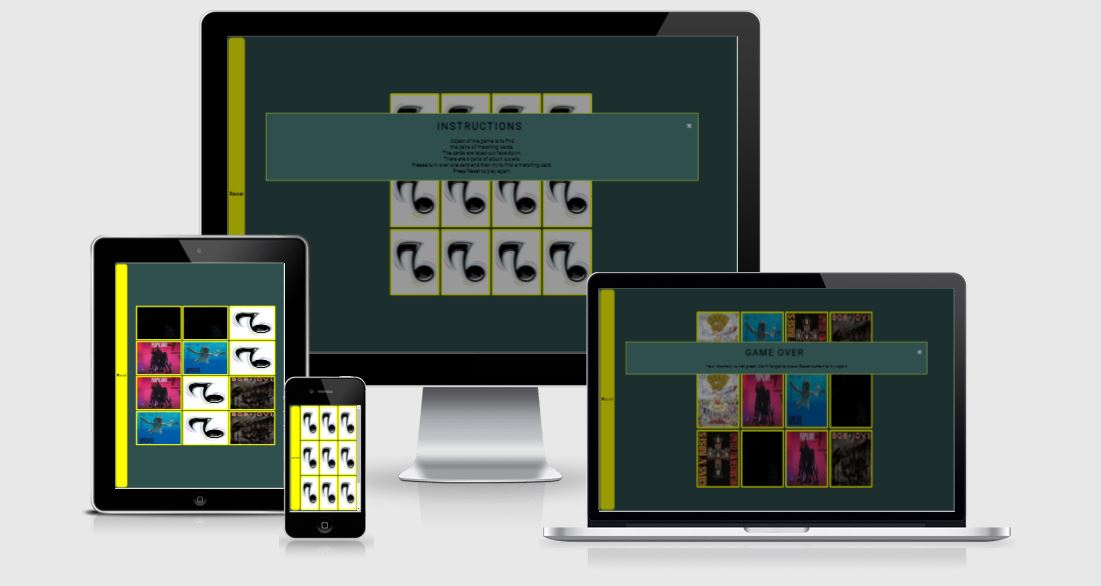
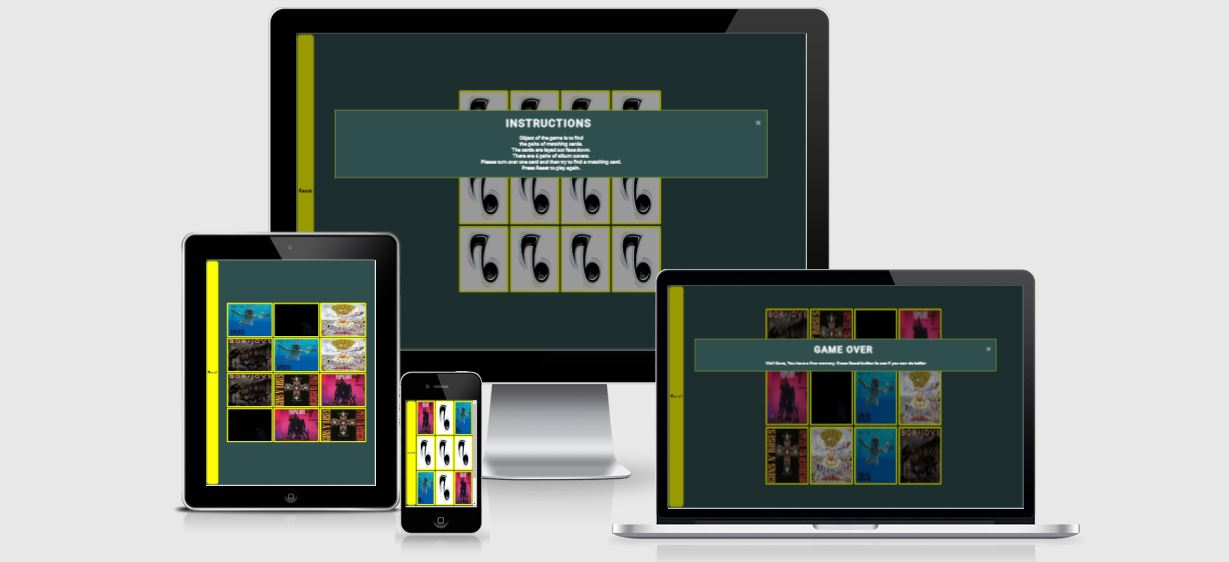
add new image, replaced metallica with def leppard

diff --git a/index.html b/index.html
@@ -73,13 +73,13 @@
             <img class = "back-face" src = "assets/images/note.webp" alt = "music note 1">    
         </div>
 
-        <div class = "memory-card" data-band="Metallica">
-            <img class = "front-face" src = "assets/images/metallica.webp" alt = "Metallica Black">
+        <div class = "memory-card" data-band="DefLeppard">
+            <img class = "front-face" src = "assets/images/defleppard.webp" alt = "DefLeppard">
             <img class = "back-face" src = "assets/images/note.webp" alt = "music note 1">            
 
         </div>
-        <div class = "memory-card" data-band="Metallica">
-            <img class = "front-face" src = "assets/images/metallica.webp" alt = "Metallica Black">
+        <div class = "memory-card" data-band="DefLeppard">
+            <img class = "front-face" src = "assets/images/defleppard.webp" alt = "DefLeppard">
             <img class = "back-face" src = "assets/images/note.webp" alt = "music note 1">       
         </div>
 
